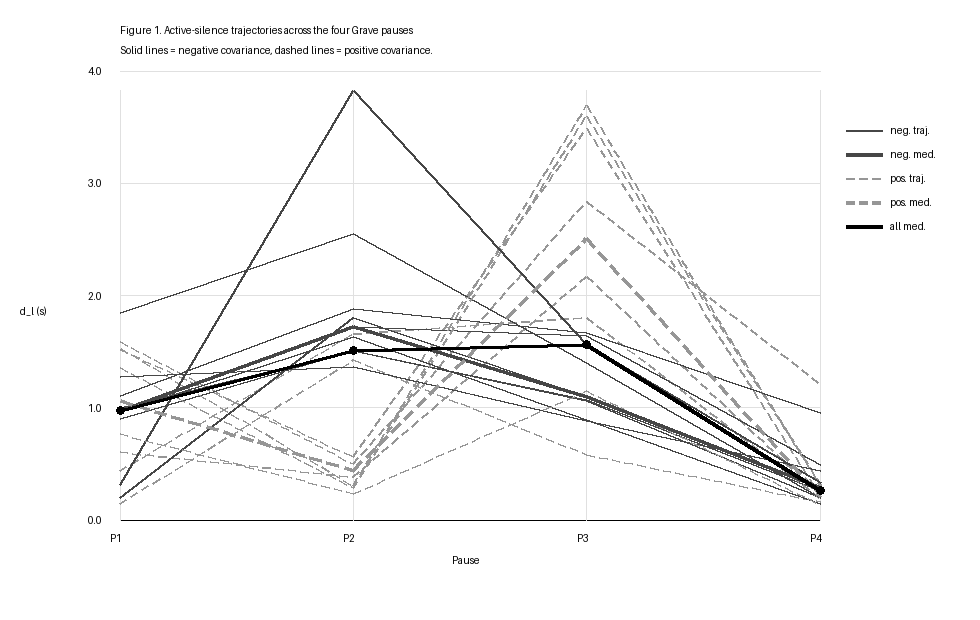
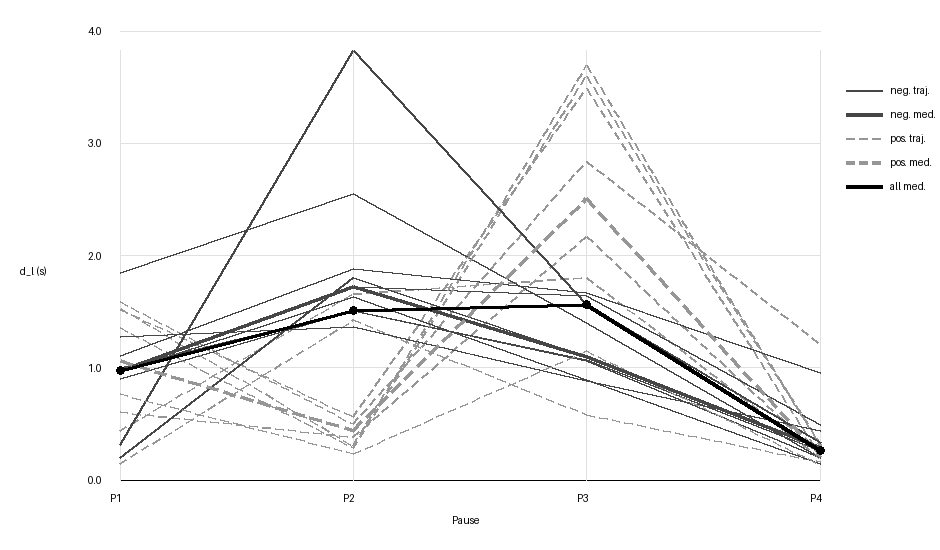
Tighten trajectory figure layout

diff --git a/code/04_figures.py b/code/04_figures.py
@@ -9,7 +9,6 @@ from pathlib import Path
 
 from PIL import Image, ImageDraw, ImageFont
 from reportlab.lib import colors
-from reportlab.lib.pagesizes import letter
 from reportlab.pdfgen import canvas
 
 EVENTS = ["P1", "P2", "P3", "P4"]
@@ -66,6 +65,10 @@ def y_map(value: float, top: float, height: float, max_y: float) -> float:
     return top + height - (value / max_y) * height
 
 
+def y_map_pdf(value: float, bottom: float, height: float, max_y: float) -> float:
+    return bottom + (value / max_y) * height
+
+
 def dash_segments(points: list[tuple[float, float]], dash: float = 8.0, gap: float = 5.0) -> list[tuple[tuple[float, float], tuple[float, float]]]:
     segments = []
     for (x1, y1), (x2, y2) in zip(points, points[1:]):
@@ -88,8 +91,8 @@ def dash_segments(points: list[tuple[float, float]], dash: float = 8.0, gap: flo
 
 
 def render_png(out_path: Path, profiles: list[dict[str, object]]) -> None:
-    width, height = 980, 620
-    left, top = 120, 90
+    width, height = 940, 550
+    left, top = 120, 50
     plot_w, plot_h = 700, 430
     img = Image.new("RGB", (width, height), "white")
     draw = ImageDraw.Draw(img)
@@ -136,8 +139,6 @@ def render_png(out_path: Path, profiles: list[dict[str, object]]) -> None:
     for x, y in med_pts:
         draw.ellipse((x - 4, y - 4, x + 4, y + 4), fill=BLACK)
 
-    draw.text((left, 24), "Figure 1. Active-silence trajectories across the four Grave pauses", fill=BLACK, font=font)
-    draw.text((left, 44), "Solid lines = negative covariance, dashed lines = positive covariance.", fill=BLACK, font=font)
     legend_x = left + plot_w + 26
     legend_y = top + 40
     legend = [
@@ -168,20 +169,18 @@ def set_stroke_pdf(pdf: canvas.Canvas, rgb: tuple[int, int, int], width: float =
 
 
 def render_pdf(out_path: Path, profiles: list[dict[str, object]]) -> None:
-    pdf = canvas.Canvas(str(out_path), pagesize=letter)
-    width, height = letter
-    left, top = 90, height - 120
-    plot_w, plot_h = 420, 300
+    width, height = 520, 340
+    pdf = canvas.Canvas(str(out_path), pagesize=(width, height))
+    left, top = 62, height - 22
+    plot_w, plot_h = 350, 270
     max_y = max(max(profile["dl"]) for profile in profiles)
     x_positions = [left + i * (plot_w / (len(EVENTS) - 1)) for i in range(len(EVENTS))]
 
-    pdf.setFont("Helvetica", 10)
-    pdf.drawString(left, height - 48, "Figure 1. Active-silence trajectories across the four Grave pauses")
-    pdf.drawString(left, height - 62, "Solid lines = negative covariance, dashed lines = positive covariance.")
+    pdf.setFont("Helvetica", 8)
 
     for i in range(5):
         y_val = float(i)
-        y = y_map(y_val, top - plot_h, plot_h, max_y)
+        y = y_map_pdf(y_val, top - plot_h, plot_h, max_y)
         set_stroke_pdf(pdf, GRID_COLOR, 0.6)
         pdf.line(left, y, left + plot_w, y)
         pdf.setFillColor(colors.black)
@@ -198,7 +197,7 @@ def render_pdf(out_path: Path, profiles: list[dict[str, object]]) -> None:
         pdf.drawCentredString(x, top - plot_h - 14, event)
 
     for profile in profiles:
-        pts = [(x_positions[i], y_map(profile["dl"][i], top - plot_h, plot_h, max_y)) for i in range(len(EVENTS))]
+        pts = [(x_positions[i], y_map_pdf(profile["dl"][i], top - plot_h, plot_h, max_y)) for i in range(len(EVENTS))]
         if profile["sign"] == "negative":
             set_stroke_pdf(pdf, NEG_COLOR, 1.2)
         else:
@@ -214,7 +213,7 @@ def render_pdf(out_path: Path, profiles: list[dict[str, object]]) -> None:
         if not group:
             continue
         med = [median([vals[i] for vals in group]) for i in range(len(EVENTS))]
-        pts = [(x_positions[i], y_map(med[i], top - plot_h, plot_h, max_y)) for i in range(len(EVENTS))]
+        pts = [(x_positions[i], y_map_pdf(med[i], top - plot_h, plot_h, max_y)) for i in range(len(EVENTS))]
         set_stroke_pdf(pdf, color, 2.4, dash=dash)
         path = pdf.beginPath()
         path.moveTo(*pts[0])
@@ -223,7 +222,7 @@ def render_pdf(out_path: Path, profiles: list[dict[str, object]]) -> None:
         pdf.drawPath(path)
 
     all_med = [median([profile["dl"][i] for profile in profiles]) for i in range(len(EVENTS))]
-    med_pts = [(x_positions[i], y_map(all_med[i], top - plot_h, plot_h, max_y)) for i in range(len(EVENTS))]
+    med_pts = [(x_positions[i], y_map_pdf(all_med[i], top - plot_h, plot_h, max_y)) for i in range(len(EVENTS))]
     set_stroke_pdf(pdf, BLACK, 2.4)
     path = pdf.beginPath()
     path.moveTo(*med_pts[0])
@@ -234,8 +233,8 @@ def render_pdf(out_path: Path, profiles: list[dict[str, object]]) -> None:
     for x, y in med_pts:
         pdf.circle(x, y, 2.5, stroke=0, fill=1)
 
-    legend_x = left + plot_w + 24
-    legend_y = top - 70
+    legend_x = left + plot_w + 18
+    legend_y = top - 55
     legend_items = [
         ("neg. traj.", NEG_COLOR, None, 1.2),
         ("neg. med.", NEG_COLOR, None, 2.4),
